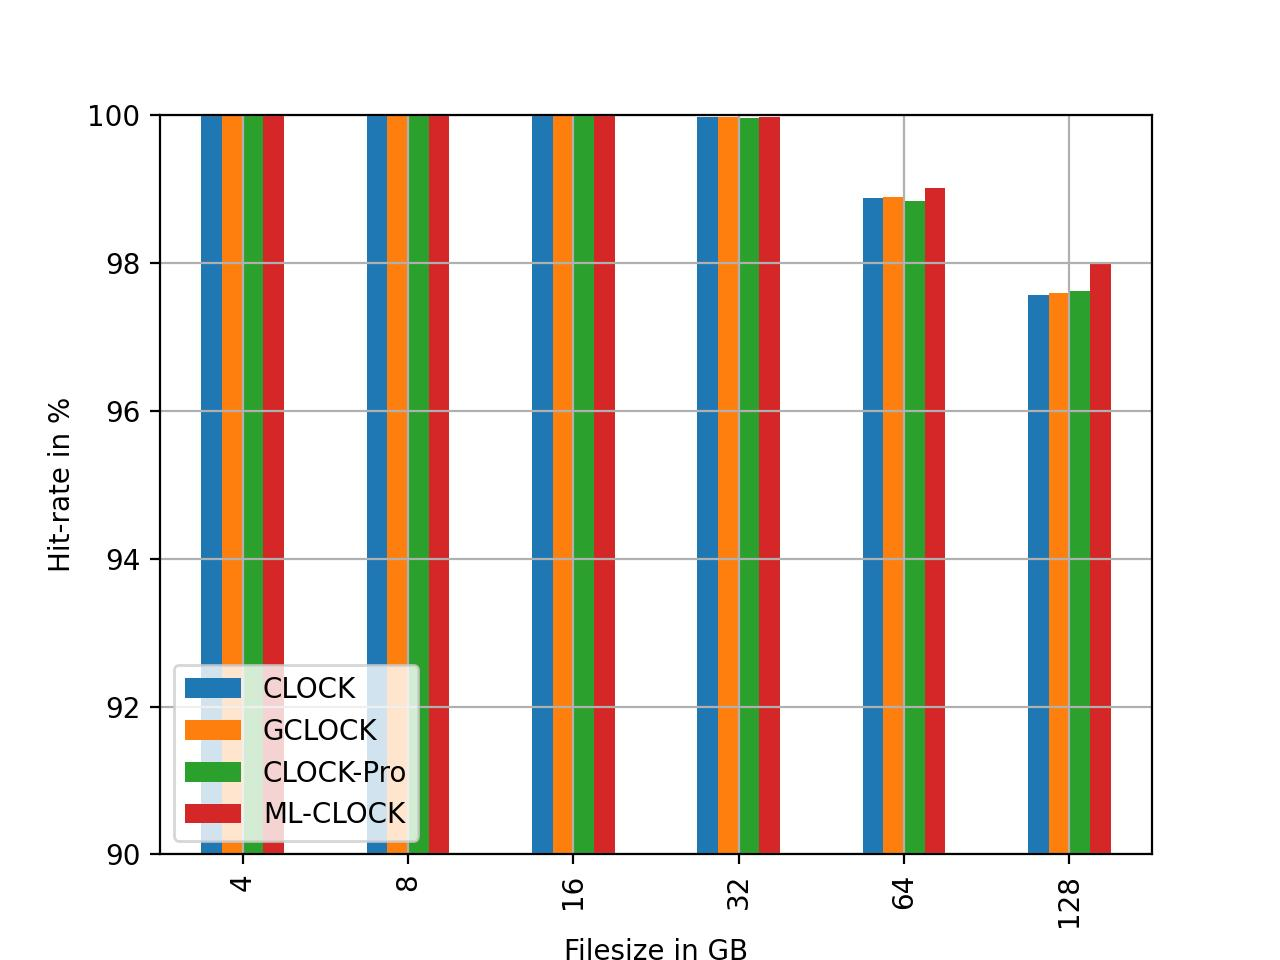
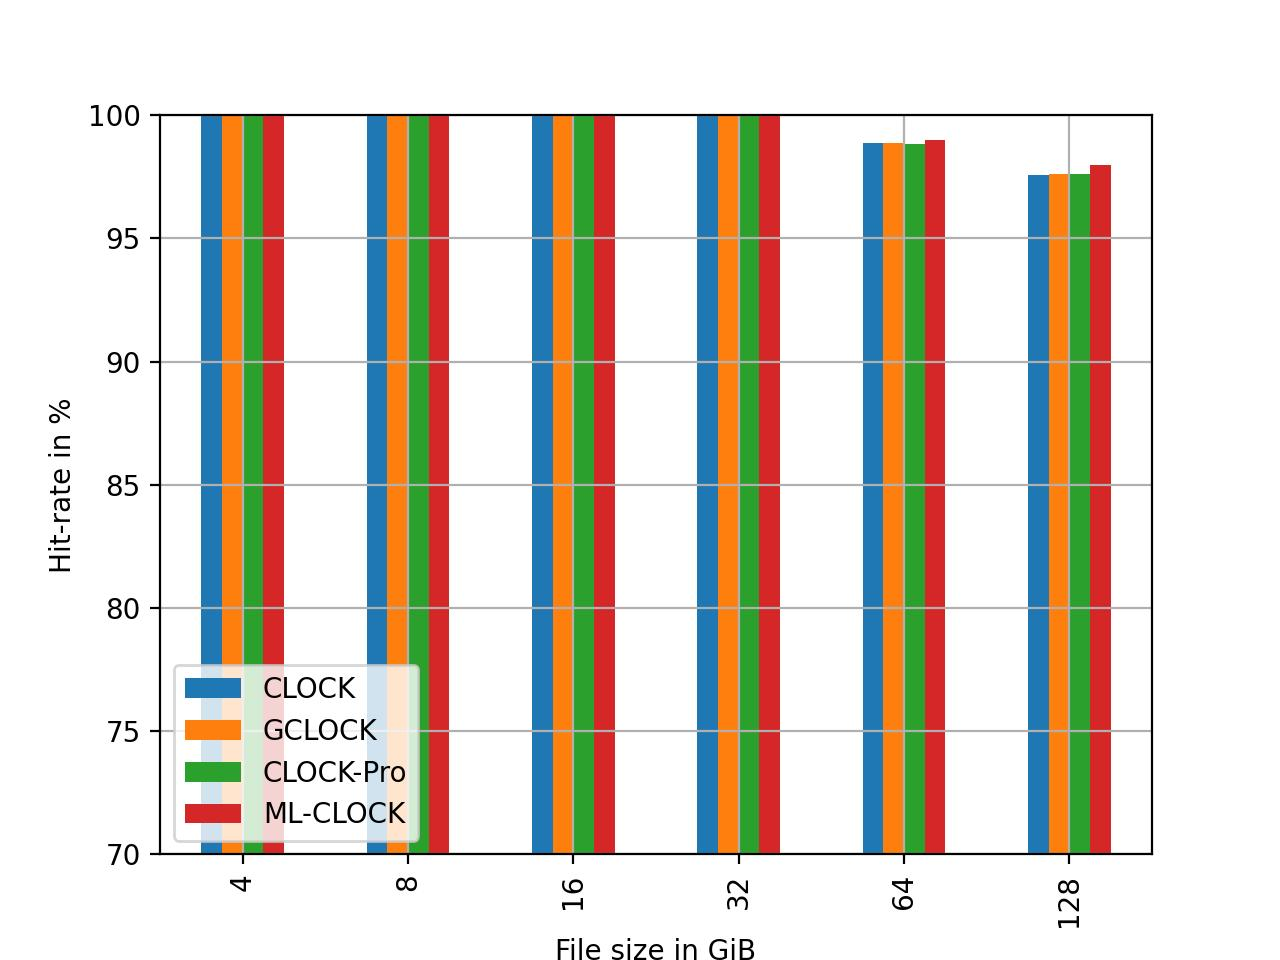
minor changes

diff --git a/thesis/thesis.tex b/thesis/thesis.tex
@@ -384,12 +384,26 @@ Haura is a research storage stack written primarily in Rust.
 Unlike traditional file systems, Haura runs in user space rather than kernel space.
 Also, Haura uses a key-value and object interface rather than the usual POSIX interface.
 It can be used either directly by an application, in which case Haura runs in the process context of the application, or
-use JULEA as a wrapper for Haura.
-JULEA then runs the Haura instance detached from the user applications, which means that the user application can be terminated or new applications can be created as long as JULEA is running, resulting in more flexibility compared to direct use.
+use JULEA \cite{kuhn2017julea} as a wrapper for Haura.
+JULEA then runs the Haura instance detached from the user applications, which means that the user application can be terminated or new applications can be created as long as JULEA is running, resulting in more flexibility compared to direct use \cite{hauraDocu}.
 
-\todo[inline]{insert schemes from Haura docu for better understanding}
-\todo[inline]{insert link to Haura docu as source}
-\todo[inline]{cite JULEA source}
+\begin{figure}[H]
+	\centering
+	\begin{subfigure}{0.4\textwidth}
+		\includegraphics[width=\textwidth]{haura_directly.jpg}		
+		\caption{Haura direct usage.}
+		\label{fig:randread zipf}
+	\end{subfigure}
+	\hfill
+	\begin{subfigure}{0.4\textwidth}
+		\includegraphics[width=\textwidth]{haura_wrapper.jpg}		
+		\caption{Haura usage through wrapper.}
+		\label{fig:randread normal}
+	\end{subfigure}k
+	
+	\caption{These figures show the two usages of Haura \cite{hauraDocu}.}
+	\label{fig:haura usage}
+\end{figure}
 
 The development of Haura started to compare $B^{\varepsilon}$-tree to ZFS and ext4 filesystem \cite{wiedemann2018modern}, where the Haura stack
 achieved an improved write performance especially for small random write workloads and better sequential throughput.
@@ -897,12 +911,13 @@ And the last field \texttt{generation} is used to track the age of an object.
 
 The DML objects can be called by their unique \emph{ObjRef}.
 This reference, shown in \cref{lst:ObjRef enumeration}, equals to the state of an object at the last access.
-Thus, four states are possible unmodified, modified, in write back or incomplete.
-If an object is unmodified, it can be identified by his \emph{ObjectPointer} and
+Thus, four states are possible: unmodified, modified, in write back or incomplete.
+If an object is unmodified, it can be identified by its \emph{ObjectPointer} and
 when the object is either modified or in write back, objects are given a unique \emph{ModifiedNodeId} for identification.
 The incomplete state, as seen in \cref{lst:ObjRef enumeration}, can only be reached when an object is deserialized from disk.
-If the DMU encounter an incomplete object during runtime, Haura panics and crashes.
+If the DMU encounters an incomplete object during runtime, Haura panics and crashes.
 % hier nochmal umschreiben
+\todo[inline]{rewrite this last part of serialization}
 
 \bigskip
 
@@ -926,12 +941,12 @@ pub enum ObjRef<P> {
 The DMU manages the cache and the states of each \emph{ObjRef} as shown in \ref{fig:DML state cycle}.
 The cycle starts with the creation of an object in modified state. When the DMU starts the write back of the object, the state
 is changed to in write back state.
-If the object is modified during write back through the steal function, it change the state back to modified.
-When the write back is finished the object state change to unmodified.
+If the object is modified during write back through the steal function, it changes the state back to modified.
+When the write back is finished the object state changes to unmodified.
 An unmodified object can either change the state to modified if the object has been modified or evicted from cache to disk.
 And lastly, any object on disk can be fetched in cache and will be in unmodified state.
 
-For the cache, all objects are managed with an unique \emph{ObjectKey}, as shown in \cref{lst:ObjectKey enumeration}.
+For the cache, all objects are managed with a unique \emph{ObjectKey}, as shown in \cref{lst:ObjectKey enumeration}.
 These \emph{ObjectKey} are  from the \emph{ObjRef} for each cache entry.
 Objects in incomplete state are not stored in cache.
 
@@ -958,7 +973,7 @@ In our case, however, the DMU must call the evict function, not the cache itself
 Furthermore, the evict function must take into account that there are cache entries that 
 are pinned i.e. in write back or modified state and therefore cannot be removed from the cache.
 Also, the DMU can remove specific cache entries, \cref{lst:simplified Cache trait} line 6 and line 7.
-The \texttt{remove}()-function for unmodified entries and \texttt{force\_remove}() for pinned entries.
+The \texttt{remove}()-function is used for unmodified entries and \texttt{force\_remove}() for pinned entries.
 
 \bigskip
 
@@ -983,31 +998,32 @@ trait Cache {
 \end{lstlisting}
 
 The second difference is that it must be possible to change the key for cache entries.
-Because an object in cache can change his state 
-Therefor we have two functions, \cref{lst:simplified Cache trait} line 8 and line 9. 
+Because an object in cache can change its state. 
+Therefore we have two functions, \cref{lst:simplified Cache trait} line 8 and line 9. 
 Again two functions for unmodified and pinned entries.
 
 Another difference is that the cache must be able to handle cache entries of any size.
 The handling of cache entries of arbitrary size is managed by the DMU.
-Each fetched entry is always inserted into the cache, and then the eviction function is invoked until the cache capacity is again below the specified cache size.
-So the cache size is a soft limit that can be temporarily exceeded, not a hard limit, which would mean that the eviction function is called
-is called before inserting so that the cache size is never exceeded.
+Each fetched entry is always inserted into the cache, and then the eviction function is invoked 
+until the cache capacity is again below the specified cache size.
+So the cache size is a soft limit that can be temporarily exceeded, not a hard limit, which would mean that the 
+eviction function is called before inserting so that the cache size is never exceeded.
 
 Furthermore, we have added the \texttt{get\_mut}()-function, \cref{lst:simplified Cache trait} line 5, 
 since the \texttt{get}()-function does not allow that the state of the cache changes, respectively atomics are used and thus a read-lock is sufficient.
 But for ML-CLOCK it is needed to change the cache and atomic operations cannot be used.
 Therefore we implemented \texttt{get\_mut}()-function which uses an exclusive write-lock.
+\todo[inline]{specify why atomics are not sufficient}
 
 \section{Implemented Cache Replacement Policies}
 \label{sec:implemented cache replacement policies}
 
-In this Section, we examine the implemented cache replacement policies.
+In this section, we examine the implemented cache replacement policies.
 We have limited ourselves to clock based cache replacement policies since they have a lower overhead 
 and better scalability 
 compared to most list-based cache replacement policies.
 Since clock-based replacement strategies try to do as little work as possible when cache hits occur and 
 do most of the work during the eviction of an entry, which should be infrequent.
-Furthermore, due to the 
 
 We followed the improvement strategies from the \cref{sec:improved cache replacement policies}
 in selecting the cache replacement policies to implement.
@@ -1015,7 +1031,7 @@ The CLOCK policy was already implemented and is an approximation of LRU.
 The next policy we consider is GCLOCK, a generalization of CLOCK that uses more history information.
 CLOCK-Pro is an example of a cache replacement policy that recognizes access patterns.
 It uses the Inter-Reference recency to distinguish between hot and cold entries and handle these entries differently.
-The last implemented cache replacement policy, ML-CLOCK, is an example for an policy that uses machine learning.
+The last implemented cache replacement policy, ML-CLOCK, is an example for a policy that uses machine learning.
 A model is trained based on the removed entries and the cache hits. 
 This model is then used to find the entry for the eviction.
 
@@ -1081,8 +1097,9 @@ $\textcolor{ovgu-blue}{\texttt{end \ if}}$
 return entry 
 \end{lstlisting}
 
-For our implementation in Haura, we additionally need to handle the case where the entry to be evicted is pinned and therefore cannot be cleared.
-When this case occurs, we spare the entry, increment the hand, and start the search for the next entry to be eviction from there.
+For our implementation in Haura, we additionally need to handle the case where the entry to be 
+evicted is pinned and therefore cannot be cleared.
+When this case occurs, we spare the entry, increment the hand, and start the search for the next entry to be evicted from there.
 
 The advantage of CLOCK is that it does not have the problem of lock contention during cache hits, as LRU and LFU do.
 This is because CLOCK does not have to maintain a priority queue and 
@@ -1165,7 +1182,7 @@ To achieve better efficiency than LIRS, CLOCK-Pro combines the LRU priority queu
 And instead of using only one hand, as in CLOCK, three hands are used to provide the functions of LIRS, 
 as shown in \cref{fig:clock in clock-pro}.
 For our implementation, we use a circular double linked list instead of circular single linked list, like in CLOCK.
-Because in some cases me need to move a hand one entry backwards (move to predecessor) to correctly implement the motion of all hands.
+Because in some cases we need to move a hand one entry backwards (move to predecessor) to correctly implement the motion of all hands.
 Since the hands should not point to the same entry.
 
 \begin{figure}[ht]
@@ -1177,7 +1194,7 @@ Since the hands should not point to the same entry.
 \end{figure}
 
 For each entry we need to store additional metadata. This includes whether it is a hot or cold entry, is it resident or non-resident in the cache, has it been referenced in the near past, and is the entry in the test phase.
-Each Hot Entry is always resident and not in the testing phase.
+Each hot entry is always resident and not in the testing phase.
 Cold entries, on the other hand, may be resident or non-resident and may or may not be in the testing phase.
 Also, all newly inserted entries are resident cold entries in the test phase.
 Both can be referenced or not.
@@ -1185,19 +1202,21 @@ The test phase is used to give cold entries the chance to turn into hot entries.
 As we will see in a moment.
 
 The $\textbf{Hand}_{hot}$ marks the tail of the list and therefore points to the last hot entry.
-Also, $\textbf{hand}_{hot}$ turns unreferenced hot entries into cold entries  and removes the reference for referenced hot entries when it passes over them.
+Also, $\textbf{Hand}_{hot}$ turns unreferenced hot entries into cold entries  and removes the reference for referenced hot entries when it passes over them.
 
 
 The $\textbf{Hand}_{cold}$ is used to find the entry for eviction. 
 In this respect $\textbf{Hand}_{cold}$ operates like the hand in CLOCK.
-This means that $\textbf{hand}_{cold}$ will traverse all entries until it finds a resident cold entry that is not referenced and thus can be evicted.
-If the entry to be evicted is in the test phase, it remains in the cache as a non-resident entry, if it is not in the test phase, it is completely evicted from the cache.
+This means that $\textbf{Hand}_{cold}$ will traverse all entries until it finds a resident cold entry 
+that is not referenced and thus can be evicted.
+If the entry to be evicted is in the test phase, it remains in the cache as a non-resident entry, 
+if it is not in the test phase, it is completely evicted from the cache.
 So if there are only hot entries in the cache,  
 we must first convert hot entries to cold entries in order to evict an entry.
 Furthermore, $\textbf{Hand}_{cold}$ turn referenced cold entries in test phase to hot entries. 
 This is because the reference during test phase means that the Inter-Reference recency for this entry is low enough to be a categorized as an hot entry.
 
-And the $\textbf{Hand}_{cold}$ marks the last entry in test phase and ends the test phase for all resident cold entries when it moves over them. 
+And the $\textbf{Hand}_{test}$ marks the last entry in test phase and ends the test phase for all resident cold entries when it moves over them. 
 It also evicts passed non-resident cold entries from the cache.
 The reason for this is that non-resident cold entries that have not already been converted to hot entries have a high Inter-Reference recency 
 and therefore should not become hot entries.
@@ -1338,18 +1357,19 @@ When the d-hand move to the next entry, it moves the next entry
 which has the closest address in the dirty clock.
 This ensures that sequential blocks are written back, if possible.
 Furthermore, we use a ghost queue which saves the metadata of evicted entries and 
-is used to train the SLP.
+is used to train the single-layer perceptron(SLP).
 At most the ghost queue can store as many entries as the cache, clean-clock and dirty-clock together.
 
-ML-CLOCK uses a single-layer perceptron(SLP).
-SLP is a binary classifier, which in our case predicts whether an entry should be evicted or not.
+ML-CLOCK uses a single-layer perceptron(SLP), as a
+binary classifier, which in our case predicts whether an entry should be evicted or not.
 One advantage of SLP compared to more advanced machine learning techniques, such 
 as multi-layer perceptrons or long short-term memory networks, is that
 SLP has low time and space overhead,
 making it more suitable for online learning.
 Furthermore, SLP are not prone to overfitting.
 
-To predict if an entry will be evicted the following equation \ref{prediction} is used,\\
+%To predict if an entry will be evicted the following equation \ref{prediction} is used, 
+To predict if an entry will be evicted we use equation \ref{prediction},
 where $w_d, w_c$ and $w_b$ represents the weight for reuse-distance, reference count and the bias.
 The variables $x_d$ and $x_c$ represents the metadata values from the entry reuse-distance and the reference count.
 
@@ -1480,7 +1500,7 @@ In our implementation, we do not reinsert the entry into the cache for the same 
 manages which entries are inserted into the cache and not the cache itself.
 
 In case the entry for eviction is not already in the ghost queue, it will be insert into the ghost queue.
-An learning operation is triggered if the ghost queue exceeds it capacity and thus an ghost entry at the front leaves the ghost queue.
+A learning operation is triggered if the ghost queue exceeds it capacity and thus a ghost entry at the front leaves the ghost queue.
 
 So there are three possibilities to trigger a learning operation during a cache hit, 
 if the entry for eviction is already in the ghost queue or
@@ -1494,7 +1514,7 @@ simple leave the pinned entry in the clock and continue the search at the next e
 \label{sec:background summary}
 
 The basis for the data management in Haura is the DML state cycle.
-Each object can be in one of the four states on disk, unmodified, modified or in write back.
+Each object can be in one of the four states: on disk, unmodified, modified or in write back.
 Also the DML specifies which state changes are possible.
 In particular, the fact that objects cannot leave or enter the cache when in modified or 
 write back state, the pinned entries, requires significant adjustments to the cache policy.
@@ -1554,9 +1574,7 @@ And lastly, we look at the results of the evaluation which we divided in singled
 %- storage on CephFS
 %- haura config could be in appendix 
 
-
-For the evaluation the HPC-cluster of the Otto-von-Guericke-University was used.
-The HPC cluster of the Otto-von-Guericke-University was used for the evaluation.
+The HPC cluster of the Faculty of computer science of the Otto-von-Guericke-University was used for the evaluation.
 The \cref{tab:hardware node} shows the hardware of the used node.
 As secondary storage, we used the home folder which is shared between all nodes and uses CephFS.
 
@@ -1599,9 +1617,11 @@ Furthermore, we benchmark for a single fio thread and multiple fio threads perfo
 
 The selected patterns for random I/O accesses are the following distributions.
 First, the zipf-distribution (with $\theta=1.1$) which is a highly skewed long-tailed distribution.
-This means that only a few objects are accessed frequently and the most objects are accessed rarely.
+This means that only a few objects are accessed frequently and most objects are accessed rarely.
 It is therefore a cache-friendly workload.
 Such an access distribution is common, for example, with web caches and databases.
+
+\todo[inline]{could be insert we don't used cases with more writes}
 
 Next, we have selected the normal distribution.
 The reason for this is that compared to the Zipf distribution, 
@@ -1649,7 +1669,7 @@ numjobs=4
 thread
 bs=1m
 direct=1
-ioengine=external:/home/cgrueneb/haura/fio-haura/src/fio-engine-haura.o
+ioengine=external:/.../fio-engine-haura.o
 size=16g
 filesize=32g
 fsync=131072
@@ -1665,7 +1685,6 @@ in most cases or we would have to use very large I/O sizes to actually be able t
 \newpage
 \section{Single threaded}
 \subsection{Random read only Benchmark}
-\todo[inline]{correct the spelling of file size in plots}
 
 The \cref{fig:single 100p read} shows the benchmark for random read only workload for the different random distributions.
 For this case the hit rate for CLOCK and GCLOCK is nearly identical and both perform the best for all random distributions and file sizes. 
@@ -1716,6 +1735,8 @@ Thus, the cache must be refilled and each newly inserted entry does not count as
 This leads to a hit rate of 100\% for small file sizes.
 With increasing file size ML-CLOCK outperforms the other cache replacement policies for all random distributions.
 The performances of the CLOCK, GCLOCK and CLOCK-Pro are almost equal across all distributions and file sizes.
+
+\todo[inline]{explain why we drop all cache entries for a synchronization}
 
 \begin{figure}[H]
 	\centering
@@ -1787,17 +1808,6 @@ CLOCK, GCLOCK and CLOCK-Pro again show almost equal performance.
 	\caption{These figures show the hit-rate file-size diagram for each implemented 		cache replacement policy for random 50\% read 50\% write workload with different random distributions.}
 	\label{fig:single 50p read}
 \end{figure}
-
-%-------------------------------------------------------
-
-% not sure if I want to use this, don't have seq write for multi-threaded
-%\begin{figure}[H]
-%	\centering
-%	\includegraphics[scale=0.45]{seq_write.jpg}		
-%	\caption{This figure show the hit-rate file-size diagram for each implemented 		cache replacement policy for sequential writes}
-%	\label{fig:seq write}
-%\end{figure}
-
 
 \section{Multi threaded}
 \subsection{Random read only Benchmark}
@@ -2233,6 +2243,8 @@ significantly lower performance for high thread counts and file sizes.
 Which could indicate that ML-CLOCK has problems to recognize the I/O access pattern for higher thread counts and file sizes.
 Even the performance of CLOCK and GCLOCK, which was almost the same in the single-thread and multi-thread read-only benchmark, shows significant 
 differences in the mixed multi-thread benchmark.
+
+\todo[inline]{expand summary with a fazit and a conclusion when to use which cache policy}
 
 \chapter{Conclusion}
 \label{cha:conclusion}
